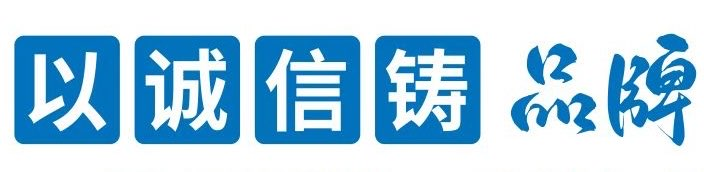
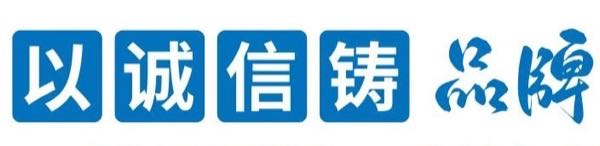
UI: Increase company name font size and shrink subtitle images for better balance

diff --git a/src/App.tsx b/src/App.tsx
@@ -12,25 +12,24 @@ export default function App() {
       <main className="w-full max-w-[800px] mx-auto bg-white shadow-2xl flex flex-col overflow-hidden relative">
         
         {/* ========== 公司名称标题栏 ========== */}
-        <header className="w-full py-8 md:py-12 bg-white border-b-4 border-[#2a7df4]/10">
+        <header className="w-full py-10 md:py-16 bg-white border-b-4 border-[#2a7df4]/10">
           <div className="text-center px-4">
-            <h1 className="text-3xl md:text-5xl lg:text-6xl font-black text-[#2a7df4] tracking-[0.15em] drop-shadow-sm">
+            <h1 className="text-4xl md:text-6xl lg:text-7xl font-black text-[#2a7df4] tracking-[0.12em] drop-shadow-sm leading-tight">
               广东泓一生物科技有限公司
             </h1>
-            <p className="mt-2 text-sm md:text-base font-bold text-slate-400 tracking-[0.3em] uppercase">
+            <p className="mt-4 text-sm md:text-lg font-bold text-slate-400 tracking-[0.3em] uppercase">
               Guangdong Hongyi Biotechnology Co., Ltd.
             </p>
           </div>
         </header>
 
-        {/* ========== 第 1-2 部分：标题块 ========== */}
-        <div className="flex flex-col md:flex-row w-full bg-white">
-          <img src="/1以诚信铸品牌.jpg" className="w-full md:w-1/2 h-auto object-contain block" alt="以诚信铸品牌" />
-          <img src="/2以品质铸市场.jpg" className="w-full md:w-1/2 h-auto object-contain block" alt="以品质铸市场" />
+        {/* ========== 第 1-2 部分：标题块 (缩小排版) ========== */}
+        <div className="flex flex-col md:flex-row w-full bg-white px-2 sm:px-8 md:px-12 py-4 gap-2 md:gap-4 justify-center items-center">
+          <img src="/1以诚信铸品牌.jpg" className="w-full md:w-[45%] h-auto object-contain block max-w-[400px]" alt="以诚信铸品牌" />
+          <img src="/2以品质铸市场.jpg" className="w-full md:w-[45%] h-auto object-contain block max-w-[400px]" alt="以品质铸市场" />
         </div>
 
         {/* ========== 第 3 部分：品牌墙 ========== */}
-        {/* 已按要求移动到公司产品上方 */}
         <img src="/3品牌墙.jpg" className="w-full h-auto object-contain block bg-white" alt="品牌墙" />
 
         {/* ========== 特别展区：公司产品 ========== */}
